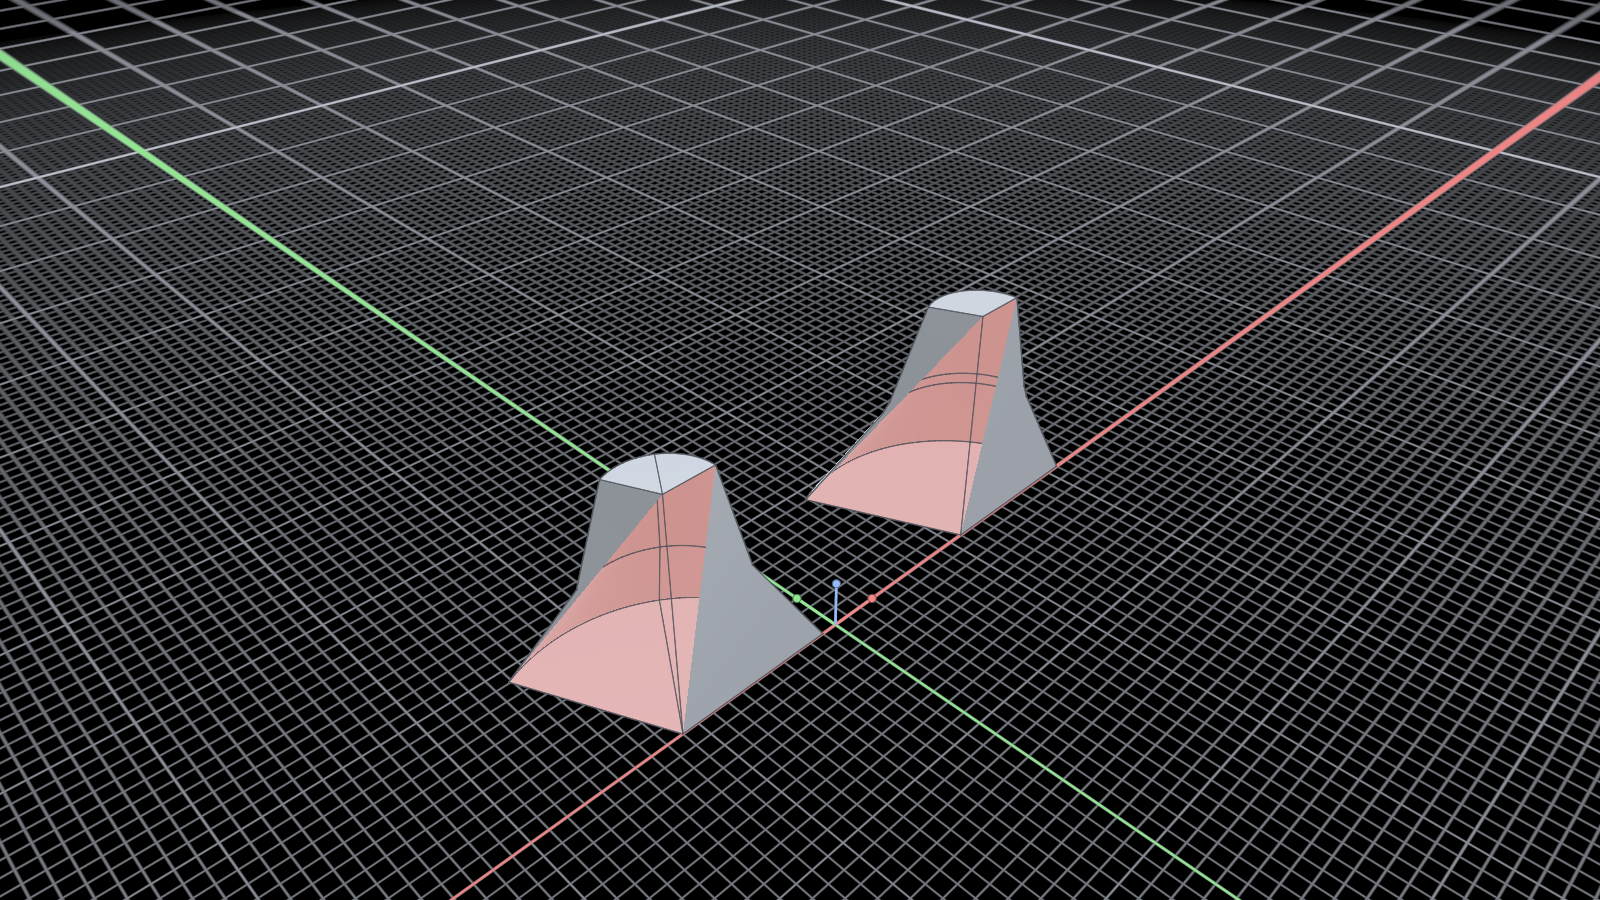
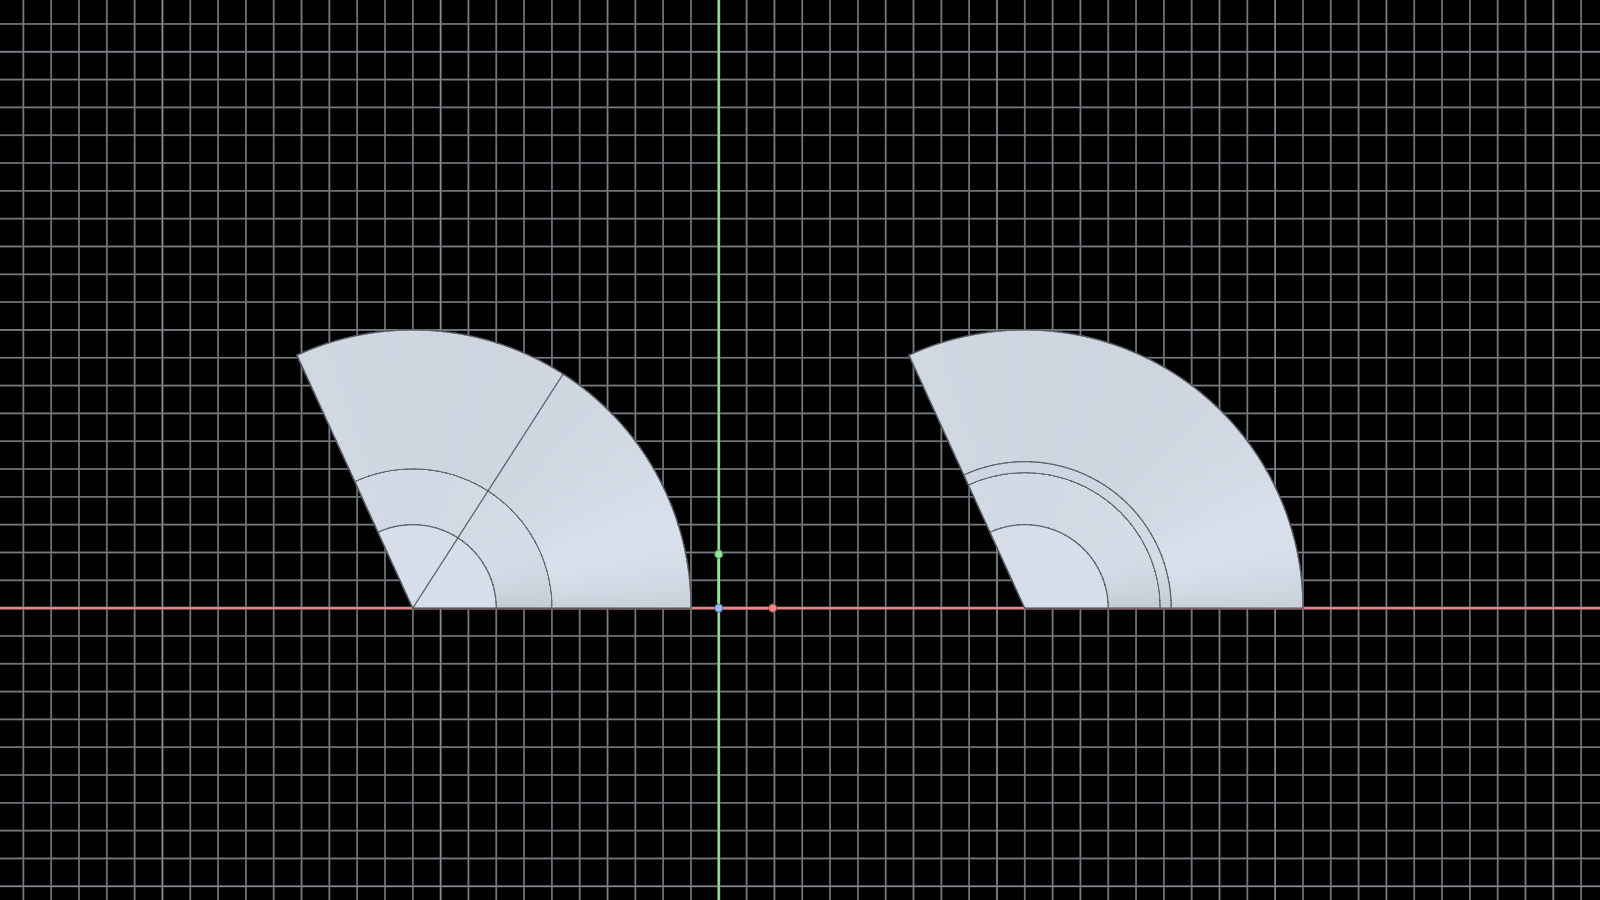
SolidArc: clarify cone-cone chamfer proof view

diff --git a/Editor/AuthoringTools/Modelling/SolidArc/Verification/PartialConeConeChamferVerification.cpp b/Editor/AuthoringTools/Modelling/SolidArc/Verification/PartialConeConeChamferVerification.cpp
@@ -262,7 +262,7 @@ int main()
     const bool Rendered = SourceResult && ProofResult &&
         ProofHost.Document().AddBody("SharpPartialConeCone", Source.Transformed(Mat4::Translation({ -11, 0, 0 }))).Identity > 0 &&
         ProofHost.Document().AddBody("ChamferedPartialConeCone", ProofResult.Payload.Transformed(Mat4::Translation({ 11, 0, 0 }))).Identity > 0 &&
-        ProofHost.Execute("view iso") && ProofHost.Execute("view fit") && ProofHost.Execute("render Phase36l_PartialConeConeChamfer");
+        ProofHost.Execute("view top") && ProofHost.Execute("view fit") && ProofHost.Execute("render Phase36l_PartialConeConeChamfer");
     Panel.Expect("The cone–cone source/result proof render completes", Rendered);
     Panel.Expect("The cone–cone proof PNG is visible", std::filesystem::exists(Proof) && std::filesystem::file_size(Proof, Error) > 100000);
     return Panel.Conclude();
